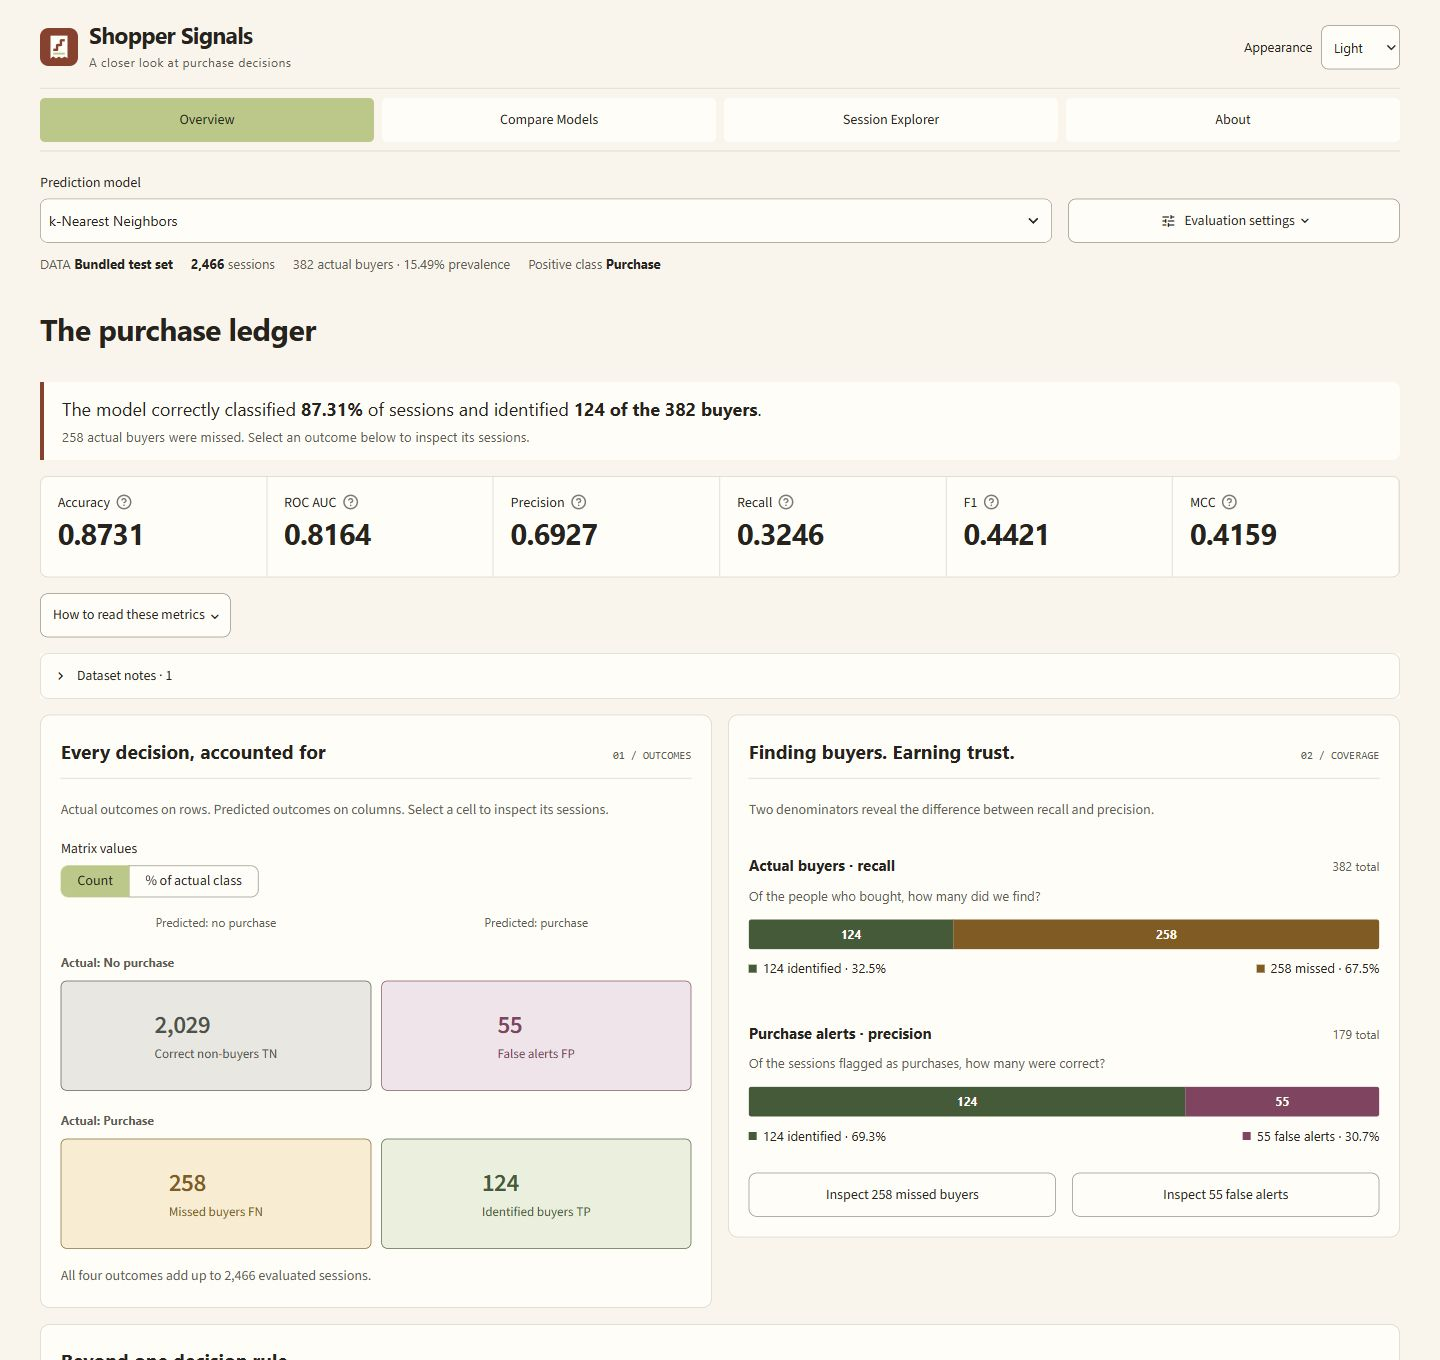
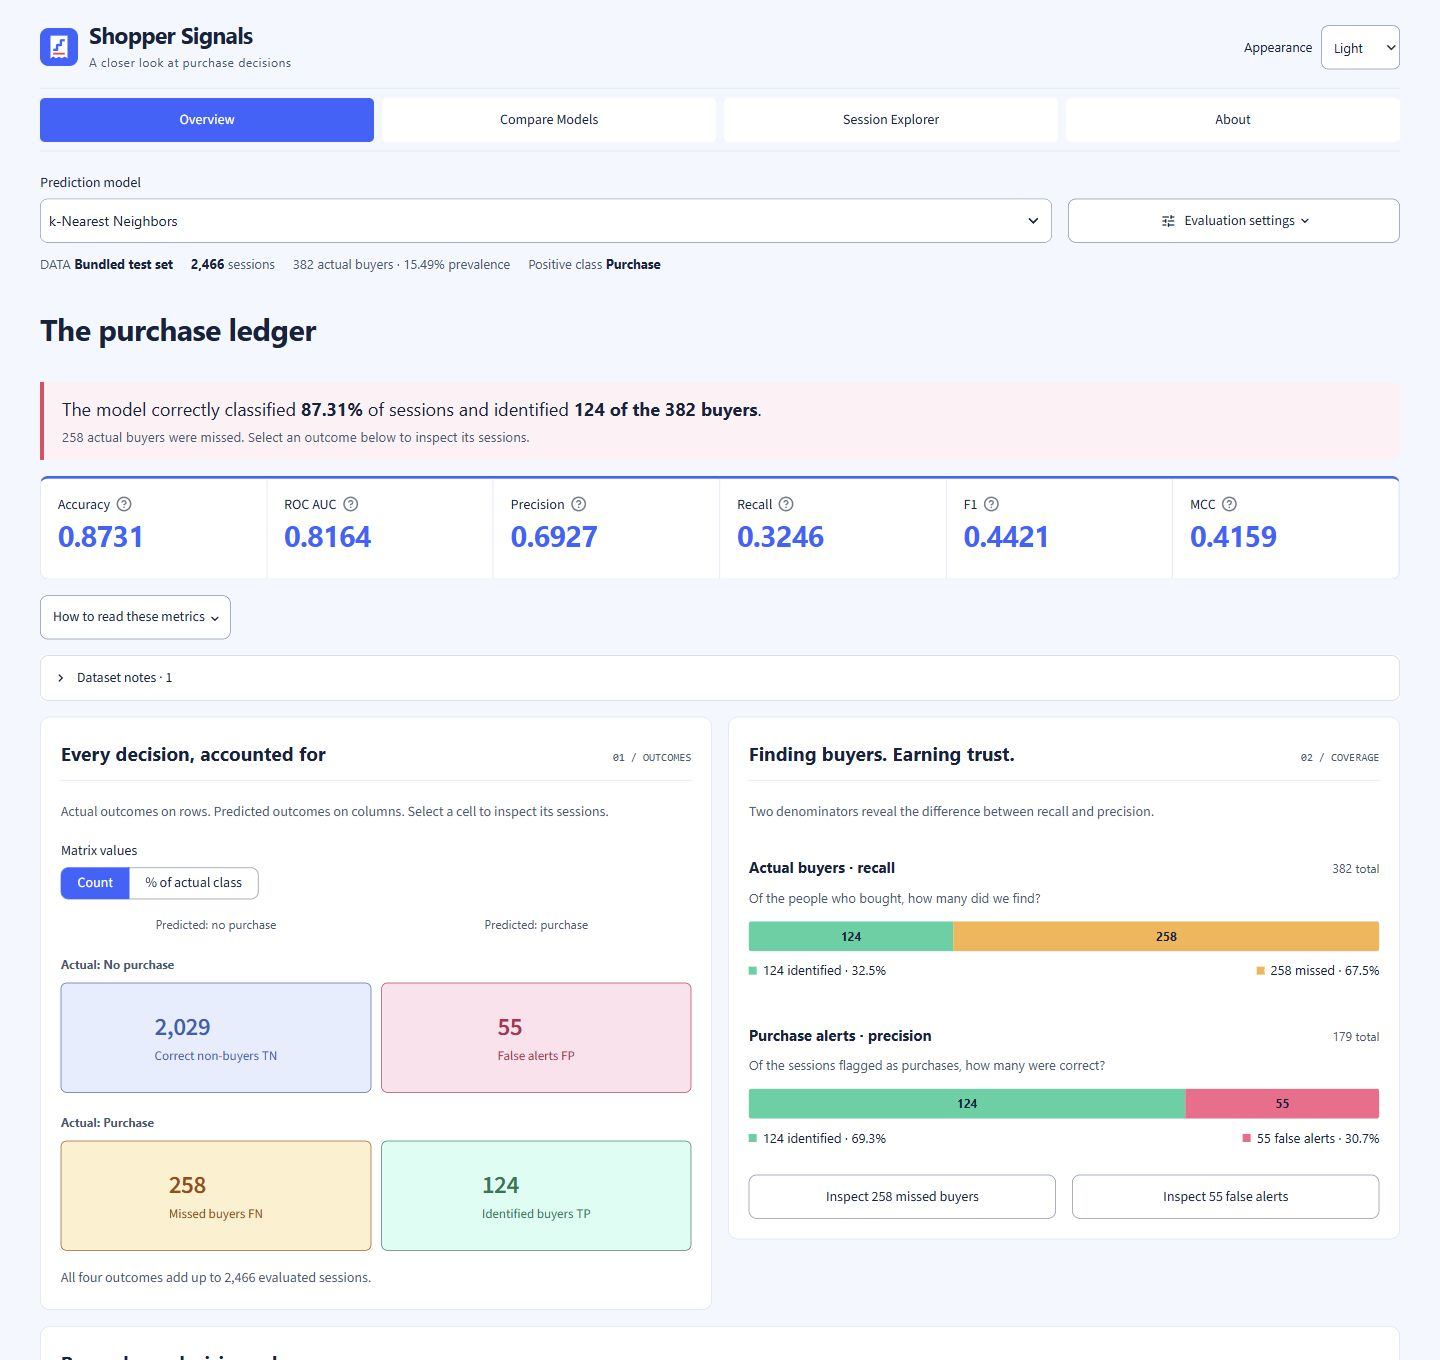
Brighten Shopper Signals with cobalt, coral, and mint themes
Replace the muted paper and olive palette with crisp white and navy surfaces, saturated cobalt navigation and metric values, coral findings, and vivid mint, amber, and pink outcome bars. Coordinate the receipt mark, native controls, model curves, and both appearance modes.

Separate outcome text colors from brighter bar fills so the added saturation preserves readable labels. Verify text contrast for cells and bars, selected controls, and the main palette; retain the existing layout and prediction behavior.

Refresh all four desktop/mobile screenshots and update the README's palette descriptions and measured contrast ratios. Existing chart regression tests and lint pass.

diff --git a/assets/app.css b/assets/app.css
@@ -1,24 +1,33 @@
 :root {
- --paper:#FAF5EB;--panel:#FFFDF8;--text:#27231F;--muted:#645B52;--action:#943B29;
- --action-text:#FFFFFF;--selected:#B9C982;--selected-text:#24281B;--rule:#D9D0C0;
- --input-border:#958978;--hover:#F0EADC;--focus:#943B29;
- --buyer:#3E5C35;--buyer-bg:#EAF0DB;--missed:#8A5A11;--missed-bg:#FCEDD0;
- --false:#8A3E61;--false-bg:#F4E3EB;--neutral:#4F514A;--neutral-bg:#E9E7E0;
+ --paper:#F3F7FF;--panel:#FFFFFF;--text:#14213D;--muted:#465873;--action:#245BFF;
+ --action-text:#FFFFFF;--selected:#245BFF;--selected-text:#FFFFFF;--rule:#D5E1F5;
+ --input-border:#7789A6;--hover:#E8EFFF;--focus:#245BFF;
+ --accent:#ED4163;--accent-bg:#FFF0F4;--bar-text:#14213D;
+ --buyer:#047857;--buyer-bg:#D5FFF1;--buyer-fill:#22D3A1;
+ --missed:#A54700;--missed-bg:#FFF1CC;--missed-fill:#FFB547;
+ --false:#BB2450;--false-bg:#FFE1EC;--false-fill:#FF638B;
+ --neutral:#315CB2;--neutral-bg:#E4EDFF;
 }
 html[data-shopper-theme="dark"] {
- --paper:#1B1A17;--panel:#27251F;--text:#F5EFE3;--muted:#BFB6A4;--action:#FFA98D;
- --action-text:#291D17;--selected:#D2E39A;--selected-text:#24281B;--rule:#494538;
- --input-border:#918775;--hover:#353127;--focus:#D2E39A;
- --buyer:#C1D99D;--buyer-bg:#323D25;--missed:#F0C379;--missed-bg:#41331E;
- --false:#E6A3C4;--false-bg:#432B37;--neutral:#C7C4B9;--neutral-bg:#36352E;
+ --paper:#0B1228;--panel:#141F3B;--text:#F4F8FF;--muted:#B2C2DF;--action:#8AABFF;
+ --action-text:#0B1734;--selected:#315DF5;--selected-text:#FFFFFF;--rule:#334A71;
+ --input-border:#7189B4;--hover:#20335A;--focus:#8AABFF;
+ --accent:#FF7A99;--accent-bg:#2E203D;--bar-text:#0B1734;
+ --buyer:#47E5B1;--buyer-bg:#123D39;--buyer-fill:#47E5B1;
+ --missed:#FFD166;--missed-bg:#3E321D;--missed-fill:#FFD166;
+ --false:#FF7AA7;--false-bg:#42233D;--false-fill:#FF7AA7;
+ --neutral:#9BB8FF;--neutral-bg:#21345A;
 }
 @media(prefers-color-scheme:dark) {
  html:not([data-shopper-theme]) {
-  --paper:#1B1A17;--panel:#27251F;--text:#F5EFE3;--muted:#BFB6A4;--action:#FFA98D;
-  --action-text:#291D17;--selected:#D2E39A;--selected-text:#24281B;--rule:#494538;
-  --input-border:#918775;--hover:#353127;--focus:#D2E39A;
-  --buyer:#C1D99D;--buyer-bg:#323D25;--missed:#F0C379;--missed-bg:#41331E;
-  --false:#E6A3C4;--false-bg:#432B37;--neutral:#C7C4B9;--neutral-bg:#36352E;
+  --paper:#0B1228;--panel:#141F3B;--text:#F4F8FF;--muted:#B2C2DF;--action:#8AABFF;
+  --action-text:#0B1734;--selected:#315DF5;--selected-text:#FFFFFF;--rule:#334A71;
+  --input-border:#7189B4;--hover:#20335A;--focus:#8AABFF;
+  --accent:#FF7A99;--accent-bg:#2E203D;--bar-text:#0B1734;
+  --buyer:#47E5B1;--buyer-bg:#123D39;--buyer-fill:#47E5B1;
+  --missed:#FFD166;--missed-bg:#3E321D;--missed-fill:#FFD166;
+  --false:#FF7AA7;--false-bg:#42233D;--false-fill:#FF7AA7;
+  --neutral:#9BB8FF;--neutral-bg:#21345A;
  }
 }
 html,body,.stApp,[data-testid="stAppViewContainer"],[data-testid="stMain"] {
@@ -93,15 +102,16 @@ input::placeholder {color:var(--muted)!important;opacity:1;}
 .context-line {display:flex;gap:8px 18px;flex-wrap:wrap;font-size:13px;color:var(--muted);line-height:1.5;margin-top:-4px;}
 .context-line strong {color:var(--text);font-weight:650;overflow-wrap:anywhere;}
 .eyebrow {font-size:11px;font-weight:700;letter-spacing:1.5px;text-transform:uppercase;color:var(--muted);margin-bottom:6px;}
-.finding {border-left:4px solid var(--action);padding:14px 18px;background:var(--panel);border-radius:0 8px 8px 0;}
+.finding {border-left:4px solid var(--accent);padding:14px 18px;background:var(--accent-bg);border-radius:0 8px 8px 0;}
 .finding p {font-size:18px;line-height:1.45;margin:0;}
 .finding small {display:block;margin-top:5px;line-height:1.45;}
 .st-key-metric_grid [data-testid="stHorizontalBlock"] {display:grid;grid-template-columns:repeat(6,minmax(0,1fr));gap:0;}
 .st-key-metric_grid [data-testid="stColumn"] {width:100%!important;min-width:0!important;}
-.st-key-metric_grid {background:var(--panel);border:1px solid var(--rule);border-radius:8px;overflow:hidden;}
+.st-key-metric_grid {background:var(--panel);border:1px solid var(--rule);border-top:3px solid var(--action);border-radius:8px;overflow:hidden;}
 [data-testid="stMetric"] {padding:13px 17px;border-right:1px solid var(--rule);min-height:100px;}
 [data-testid="stMetricLabel"] {color:var(--muted);font-size:13px;}
-[data-testid="stMetricValue"] {font-size:29px;font-weight:650;letter-spacing:-.8px;}
+[data-testid="stMetricValue"] {font-size:29px;font-weight:650;letter-spacing:-.8px;color:var(--action);}
+.st-key-metric_grid [data-testid="stMetricValue"] * {color:var(--action);}
 [data-testid="stMetric"] svg {color:var(--muted);}
 .st-key-panel_matrix,.st-key-panel_coverage,.st-key-panel_curves,.st-key-panel_comparison,.st-key-panel_explorer,.st-key-panel_about {
  background:var(--panel);border:1px solid var(--rule);border-radius:10px;padding:20px;
@@ -134,13 +144,13 @@ input::placeholder {color:var(--muted)!important;opacity:1;}
 .coverage-question {font-size:13px;color:var(--muted);margin:0 0 13px;}
 .coverage-track {height:30px;display:flex;overflow:hidden;border-radius:3px;background:var(--neutral-bg);}
 .coverage-track>span {display:flex;align-items:center;justify-content:center;font-size:12px;font-weight:650;transition:width 320ms ease;}
-.coverage-track .buyer {background:var(--buyer);color:var(--panel);}
-.coverage-track .missed {background:var(--missed);color:var(--panel);}
-.coverage-track .false {background:var(--false);color:var(--panel);}
+.coverage-track .buyer {background:var(--buyer-fill);color:var(--bar-text);}
+.coverage-track .missed {background:var(--missed-fill);color:var(--bar-text);}
+.coverage-track .false {background:var(--false-fill);color:var(--bar-text);}
 .coverage-values {display:flex;justify-content:space-between;gap:12px;margin-top:9px;font-size:13px;flex-wrap:wrap;}
 .coverage-values span {display:flex;align-items:center;gap:6px;color:var(--text);}
 .swatch {width:8px;height:8px;display:inline-block;flex:none;}
-.swatch.buyer {background:var(--buyer);}.swatch.missed {background:var(--missed);}.swatch.false {background:var(--false);}
+.swatch.buyer {background:var(--buyer-fill);}.swatch.missed {background:var(--missed-fill);}.swatch.false {background:var(--false-fill);}
 .ledger-wrap {width:100%;overflow-x:auto;border:1px solid var(--rule);border-radius:7px;scrollbar-color:var(--input-border) var(--panel);}
 .ledger-table {width:100%;border-collapse:collapse;font-size:14px;color:var(--text);background:var(--panel);}
 .ledger-table caption {text-align:left;padding:12px 14px;color:var(--muted);font-size:12px;border-bottom:1px solid var(--rule);}

diff --git a/shopper_app/charts.py b/shopper_app/charts.py
@@ -14,33 +14,33 @@ from sklearn.metrics import (
 
 PALETTES = {
     "light": {
-        "paper": "#FAF5EB", "surface": "#FFFDF8", "text": "#27231F",
-        "muted": "#645B52", "grid": "#DDD3C4", "primary": "#943B29",
-        "highlight": "#B9C982", "bar": "#C8BBA6", "on_color": "#FFFDF8",
-        "identified": "#3E5C35", "missed": "#8A5A11",
-        "false_alerts": "#8A3E61", "non_buyers": "#4F514A",
+        "paper": "#F3F7FF", "surface": "#FFFFFF", "text": "#14213D",
+        "muted": "#465873", "grid": "#D5E1F5", "primary": "#245BFF",
+        "highlight": "#245BFF", "bar": "#A9C0FF", "on_color": "#FFFFFF",
+        "identified": "#047857", "missed": "#A54700",
+        "false_alerts": "#BB2450", "non_buyers": "#315CB2",
     },
     "dark": {
-        "paper": "#1B1A17", "surface": "#27251F", "text": "#F5EFE3",
-        "muted": "#BFB6A4", "grid": "#4B463A", "primary": "#FFA98D",
-        "highlight": "#D2E39A", "bar": "#8D826E", "on_color": "#1B1A17",
-        "identified": "#C1D99D", "missed": "#F0C379",
-        "false_alerts": "#E6A3C4", "non_buyers": "#C7C4B9",
+        "paper": "#0B1228", "surface": "#141F3B", "text": "#F4F8FF",
+        "muted": "#B2C2DF", "grid": "#334A71", "primary": "#8AABFF",
+        "highlight": "#315DF5", "bar": "#708DCE", "on_color": "#0B1734",
+        "identified": "#47E5B1", "missed": "#FFD166",
+        "false_alerts": "#FF7AA7", "non_buyers": "#9BB8FF",
     },
 }
 COLORS = {
-    "Logistic Regression": "#943B29",
-    "Decision Tree": "#4E663D",
-    "k-Nearest Neighbors": "#8A610A",
-    "Gaussian Naive Bayes": "#843F64",
-    "Support Vector Machine": "#61594F",
+    "Logistic Regression": "#245BFF",
+    "Decision Tree": "#008A65",
+    "k-Nearest Neighbors": "#DA5500",
+    "Gaussian Naive Bayes": "#D52968",
+    "Support Vector Machine": "#007FA3",
 }
 DARK_COLORS = {
-    "Logistic Regression": "#FFA98D",
-    "Decision Tree": "#B9CF87",
-    "k-Nearest Neighbors": "#EAC468",
-    "Gaussian Naive Bayes": "#E7A4C7",
-    "Support Vector Machine": "#BFB6A4",
+    "Logistic Regression": "#8AABFF",
+    "Decision Tree": "#45E5AF",
+    "k-Nearest Neighbors": "#FFB547",
+    "Gaussian Naive Bayes": "#FF7AA7",
+    "Support Vector Machine": "#5AD5E8",
 }
 SHORT_NAMES = {
     "Logistic Regression": "Logistic<br>regression",

diff --git a/README.md b/README.md
@@ -297,7 +297,7 @@ Serialized pipelines depend on their library versions. Use the pinned environmen
 
 ## 10. Shopper Signals application
 
-**Shopper Signals** is the Streamlit interface for exploring the five saved classifiers. Its four destinations—**Overview**, **Compare Models**, **Session Explorer**, and **About**—share the active dataset and selected model. The interface uses a warm paper palette, restrained chart colors, and a dark appearance with the same outcome meanings.
+**Shopper Signals** is the Streamlit interface for exploring the five saved classifiers. Its four destinations—**Overview**, **Compare Models**, **Session Explorer**, and **About**—share the active dataset and selected model. The interface uses bright cobalt, coral, and mint accents, crisp white surfaces, and a navy dark appearance with the same outcome meanings.
 
 The assignment explicitly requires Streamlit and deployment on Streamlit Community Cloud. The application therefore keeps `app.py` as its entry point and uses the existing Python pipelines directly. The notebook, split, fitted models, and published results remain the scientific reference.
 
@@ -335,10 +335,10 @@ The confusion matrix places **actual outcomes on rows** and **predicted outcomes
 
 | Outcome | Meaning | Visual meaning |
 |---|---|---|
-| True negative (TN) | No purchase occurred and none was predicted | Neutral ink |
-| False positive (FP) | A purchase was predicted, but none occurred | Mulberry |
-| False negative (FN) | A purchase occurred, but the model missed it | Ochre |
-| True positive (TP) | A purchase occurred and was identified | Forest olive |
+| True negative (TN) | No purchase occurred and none was predicted | Cobalt blue |
+| False positive (FP) | A purchase was predicted, but none occurred | Coral pink |
+| False negative (FN) | A purchase occurred, but the model missed it | Amber |
+| True positive (TP) | A purchase occurred and was identified | Emerald |
 
 Buyer coverage separates two questions: **recall** is the share of actual buyers identified, `TP / (TP + FN)`; **precision** is the share of purchase predictions that were correct, `TP / (TP + FP)`. The bars display their counts and denominators explicitly.
 
@@ -395,10 +395,10 @@ The specified palette's base text pairs were checked using relative luminance:
 
 | Text/background pair | Light contrast | Dark contrast |
 |---|---:|---:|
-| Main text on page | 14.35:1 | 15.20:1 |
-| Secondary text on page | 6.12:1 | 8.65:1 |
-| Action text on action background | 7.20:1 | 8.82:1 |
-| Highlight text on highlight background | 8.42:1 | 10.90:1 |
+| Main text on page | 14.88:1 | 17.43:1 |
+| Secondary text on page | 6.74:1 | 10.32:1 |
+| Action text on action background | 5.23:1 | 7.88:1 |
+| Highlight text on highlight background | 5.23:1 | 5.23:1 |
 
 These checks cover those exact color pairs. They do not establish contrast for every widget state, chart mark, or browser-rendered table. The [validation record](docs/validation.md) distinguishes completed browser and keyboard checks from the unverified 200% zoom and assistive-technology checks.
 

diff --git a/docs/validation.md b/docs/validation.md
@@ -84,6 +84,8 @@ The taller mobile screenshot frames show more of the page. Normal mobile interac
 
 The exact base palette pairs were also checked using relative luminance. Main text, secondary text, action text, and highlight text all exceed a 4.5:1 contrast ratio in both appearances; the ratios are recorded in the [README](../README.md#appearance-and-accessibility). This calculation does not certify every widget state, chart mark, or dynamically rendered surface.
 
+The subsequent color refresh replaces the muted palette with cobalt, coral, mint, and amber on white or navy surfaces. All 14 existing chart tests passed for the refreshed colors. Text on outcome cells and coverage bars exceeds 4.5:1 in both appearances, and input borders exceed 3:1 against their panel surfaces. Desktop and mobile screenshots were refreshed after checking both themes; evaluation behavior and scientific artifacts are unchanged.
+
 ## Verification limits and remaining checks
 
 - **200% zoom: unverified.** The attempted keyboard zoom shortcut had no effect in the embedded browser. No zoom-pass claim is made; repeat the check in a browser with verifiable zoom controls.
